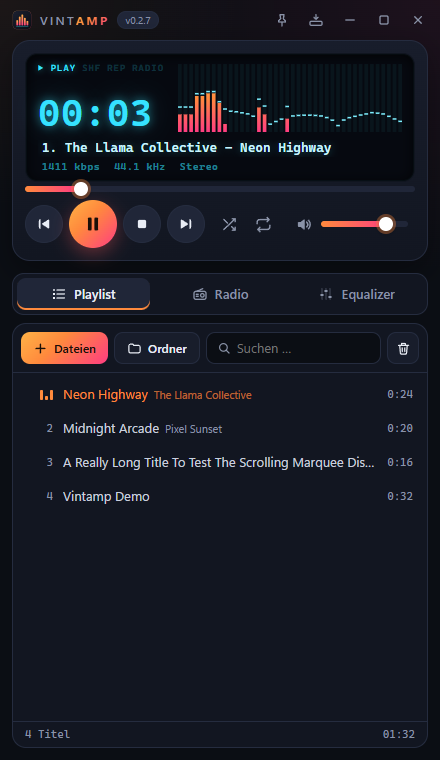
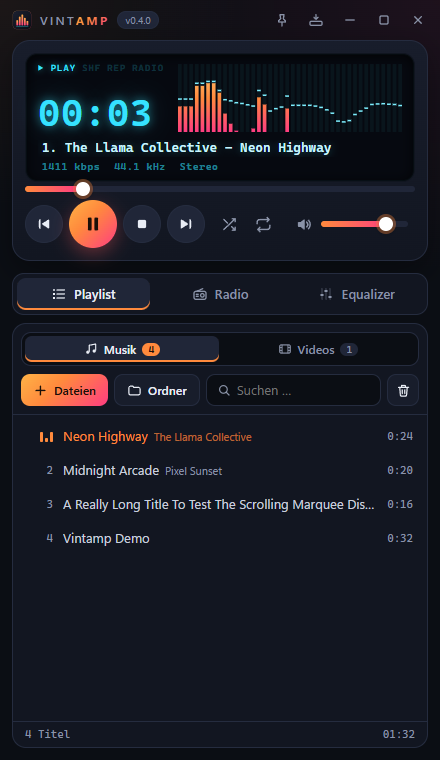
Docs: Video im Fenster, Playlist Musik/Videos (v0.4.0)

diff --git a/README.md b/README.md
@@ -1,14 +1,14 @@
 # Vintamp
 
 **Der Player, wie er früher war – nur schöner.**
-Klein, schnell, startet sofort und spielt so gut wie alles, Musik wie Video: mit Internetradio
-(über 50.000 Sender), MIDI mit Spur-Ansicht, 10-Band-Equalizer, 16 Visualizern und Mini-Modus –
-im modernen dunklen Design. Auf Deutsch und Englisch.
+Klein, schnell, startet sofort und spielt so gut wie alles: Musik und Videos direkt im Fenster,
+Internetradio (über 50.000 Sender), MIDI mit Spur-Ansicht, 10-Band-Equalizer, 16 Visualizer und
+Mini-Modus – im modernen dunklen Design. Auf Deutsch und Englisch.
 
 **[⬇ Neueste Version für Windows herunterladen](https://github.com/hunther2k/vintamp-releases/releases/latest)**
 
 <p>
-  <img src="docs/player.png" alt="Vintamp – Player mit Playlist" width="250">
+  <img src="docs/player.png" alt="Vintamp – Player mit Playlist, getrennt nach Musik und Videos" width="250">
   &nbsp;
   <img src="docs/radio.png" alt="Vintamp – Internetradio mit „Jetzt läuft“" width="250">
   &nbsp;
@@ -18,6 +18,11 @@ im modernen dunklen Design. Auf Deutsch und Englisch.
 **Maximiert oder im Vollbild** – Player und großer Visualizer links, Senderliste mehrspaltig rechts:
 
 <p><img src="docs/breit.png" alt="Vintamp – breite Ansicht mit Senderliste und großem Visualizer" width="790"></p>
+
+**Videos direkt im Fenster** – mit eigener Bedienleiste, Doppelklick schaltet auf Vollbild:
+
+<p><img src="docs/video.png" alt="Vintamp – Video im Vintamp-Fenster" width="790"><br>
+<sub>Im Bild: „Big Buck Bunny“ © Blender Foundation, <a href="https://creativecommons.org/licenses/by/3.0/">CC BY 3.0</a></sub></p>
 
 **MIDI mit Spur-Ansicht** – jede Spur mit Instrument und Noten, einzeln stumm oder solo:
 
@@ -36,12 +41,14 @@ im modernen dunklen Design. Auf Deutsch und Englisch.
 
 **Abspielen**
 - Spielt praktisch jedes Audioformat: MP3, FLAC, OGG/Opus, AAC/M4A, WAV, WMA, APE und mehr
-- Videodateien (MP4, MKV, WebM …) öffnen sich vorerst in einem eigenen Fenster;
-  Schließen des Fensters stoppt das Video, Vintamp läuft normal weiter
+- Videos (MP4, MKV, WebM, AVI …) laufen direkt im Vintamp-Fenster im Reiter „Video“ – mit
+  eigener Bedienleiste; Klick ins Bild pausiert, Doppelklick oder F schaltet auf Vollbild, Esc zurück
 - Display mit Leuchtziffern: Spielzeit (Klick wechselt zwischen verstrichen und verbleibend),
   Lauftext mit Interpret und Titel, Bitrate, Abtastrate und Kanäle
 
 **Playlist**
+- Getrennte Listen für **Musik** und **Videos** – Weiter, Zurück und Zufall bleiben in der Liste,
+  aus der gerade gespielt wird
 - Dateien oder ganze Ordner einfach ins Fenster ziehen
 - Doppelklick auf eine Musikdatei im Explorer spielt sie im laufenden Vintamp – kein zweites Fenster
 - Beim Titelwechsel rückt der aktuelle Titel in die Mitte – man sieht, was als Nächstes kommt
@@ -99,7 +106,7 @@ im modernen dunklen Design. Auf Deutsch und Englisch.
 | 1 | **Radio-Aufnahme** | Sendungen mitschneiden – automatisch in einzelne Titel aufgeteilt und mit Interpret und Titel versehen |
 | 2 | **Schnell-Schnitt** | Wellenform-Ansicht: Anfang oder Ende abschneiden, einen Teil in der Mitte entfernen, ein- und ausblenden – MP3s ohne Qualitätsverlust |
 | 3 | **Tag-Editor** | Titel, Interpret, Album, Jahr, Genre, Tracknummer und Cover bearbeiten – auch für viele Dateien auf einmal, Tags aus dem Dateinamen übernehmen |
-| 4 | **Videoplayer im Fenster** | Videos direkt in Vintamp, mit Untertiteln, Vollbild und Wiedergabegeschwindigkeit |
+| 4 | **Video-Extras** | Untertitel ein- und ausblenden, Tonspur wählen, Wiedergabegeschwindigkeit |
 | 5 | **YouTube Music** | Deine YouTube-Music-Bibliothek in Vintamp nutzen |
 | 6 | **Spotify** | Spotify aus Vintamp steuern: Suche, Playlists, aktueller Titel im Display (über Spotify Connect, Premium nötig) |
 | 7 | **Linux & macOS** | Vintamp auf allen drei Systemen |
